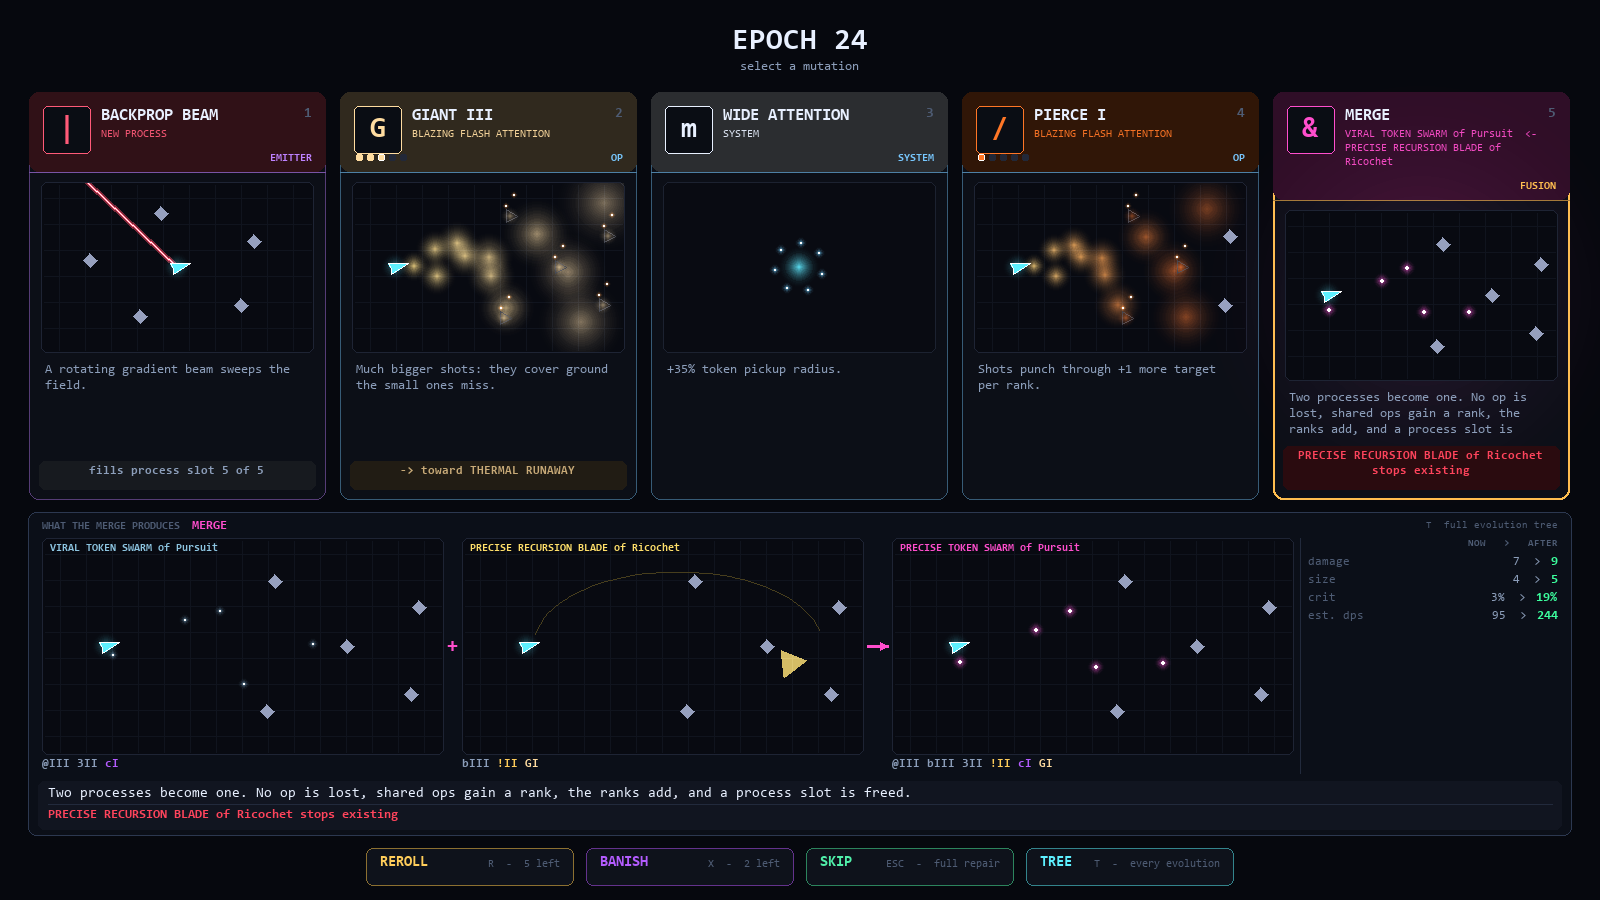
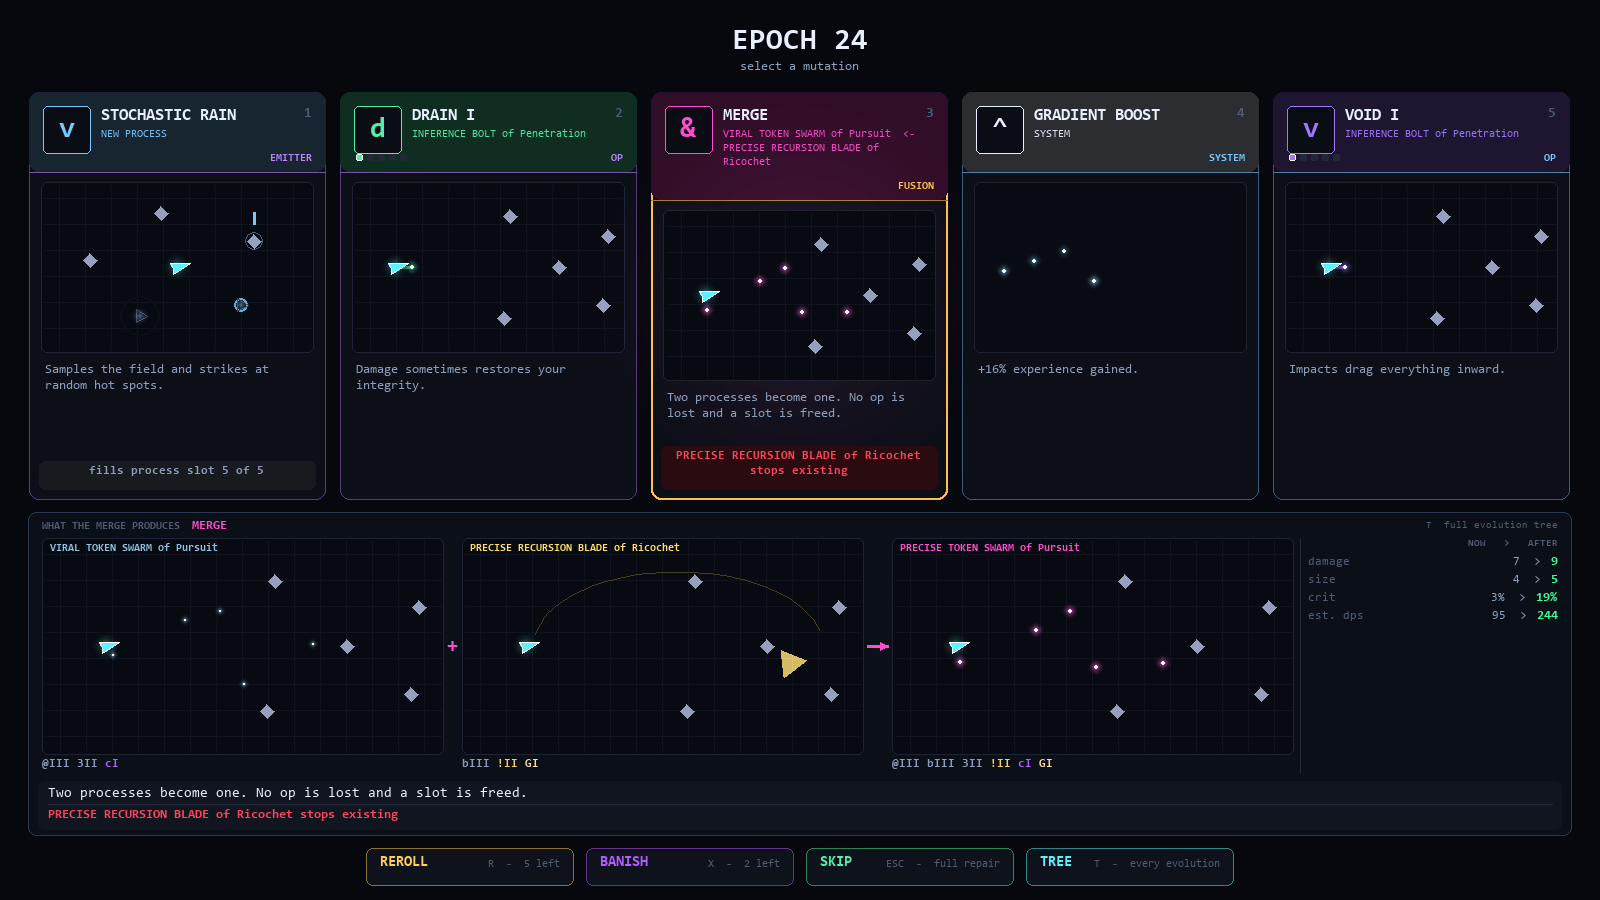
Fit the merge card's own text on the merge card

diff --git a/game/offers.py b/game/offers.py
@@ -271,8 +271,7 @@ def build_offers(w, n=None, avoid=None):
 		a, b = cands[0], cands[1]
 		key = 'fuse:%d:%d' % (a.uid, b.uid)
 		fo = _mk('fuse', key, 'MERGE', a.name + '  <-  ' + b.name,
-		         'Two processes become one. No op is lost, shared ops gain a rank, '
-		         'the ranks add, and a process slot is freed.',
+		         'Two processes become one. No op is lost and a slot is freed.',
 		         MAGENTA, 3, '&', _apply_fuse(w, a, b), a,
 		         b.name + ' stops existing', RED, 11.0)
 		fo.ops_preview = (a.emit, b.emit)
